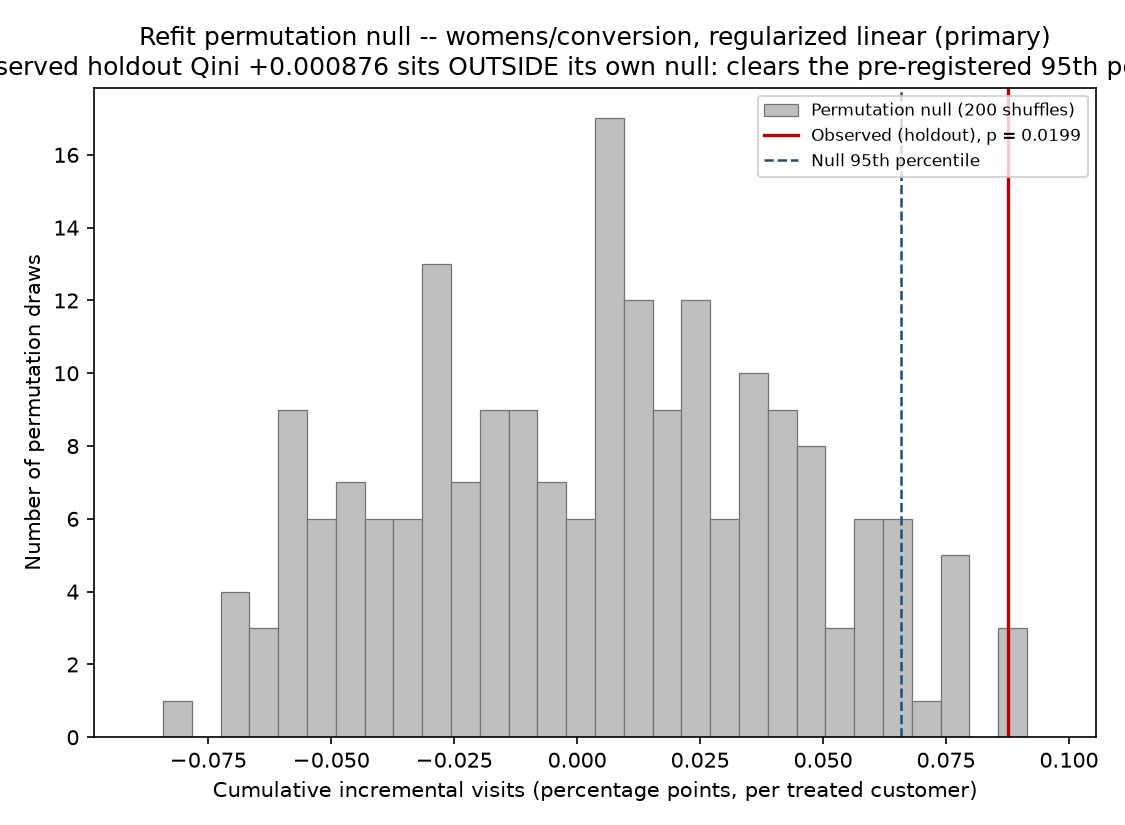
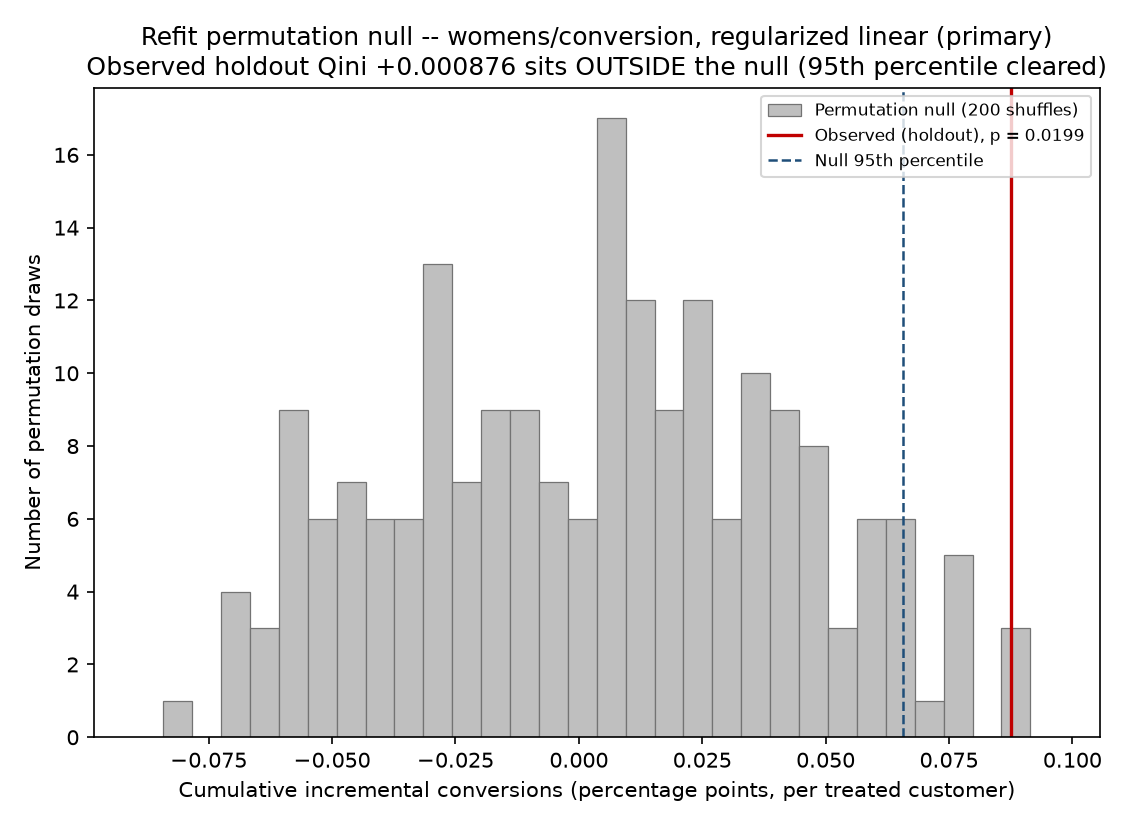
fix(04-08): keep the corrected axis label inside the canvas
The conversion substitution made the y-axis label longer than the canvas is
tall -- 561 pixels against 550 at 10 points -- so it lost its closing
bracket off the top. tight_layout alone cannot fix that: no margin makes a
label taller than the figure fit.

_relabel_qini_axis now steps the label size down until the artist's own
rendered extent lies inside the canvas, measured each pass rather than
assumed, and raises rather than publishing a clipped label if nothing down
to 7 points fits. Visit figures return at 10 points unchanged; the three
conversion figures settle at 8.5.

Figures regenerated: 5 changed, 8 byte-identical, no number moved.

Claude-Session: https://claude.ai/code/session_01D1cZ8S3b5X2BEcNT3Ze4dm

diff --git a/dont_email_everyone/pipeline.py b/dont_email_everyone/pipeline.py
@@ -552,6 +552,35 @@ def _relabel_qini_axis(fig, outcome: str, *, axis: str) -> None:
         )
     setter(label.replace("visits", OUTCOME_NOUN[outcome]))
 
+    # The factory ran `tight_layout` with the SHORTER label in place, and
+    # "conversions" is five characters longer than "visits". Re-running the
+    # layout is not enough on its own: at the default 10-point size that
+    # label measures 561 pixels against a 550-pixel canvas, so it cannot fit
+    # down the side of the figure at any margin and loses its closing bracket
+    # off the top. The size is therefore stepped down until the label's own
+    # rendered extent lies inside the canvas -- MEASURED each time rather
+    # than assumed, so this keeps working if the wording changes again.
+    #
+    # Correcting a mislabelled axis and leaving the correction clipped would
+    # trade one unreadable figure for another.
+    artist = axes.xaxis.label if axis == "x" else axes.yaxis.label
+    for size in (10.0, 9.5, 9.0, 8.5, 8.0, 7.5, 7.0):
+        artist.set_fontsize(size)
+        fig.tight_layout()
+        fig.canvas.draw()
+        extent = artist.get_window_extent(fig.canvas.get_renderer())
+        if axis == "x":
+            fits = extent.x0 >= 0.0 and extent.x1 <= fig.bbox.width
+        else:
+            fits = extent.y0 >= 0.0 and extent.y1 <= fig.bbox.height
+        if fits:
+            return
+    raise ValueError(
+        f"the {axis} axis label {getter()!r} does not fit the canvas at any "
+        "size down to 7 points; shorten the wording rather than publishing a "
+        "clipped label."
+    )
+
 
 def _worst_base_score(cell, scores):
     """Return the base score this cell's uplift correlates most strongly with.
